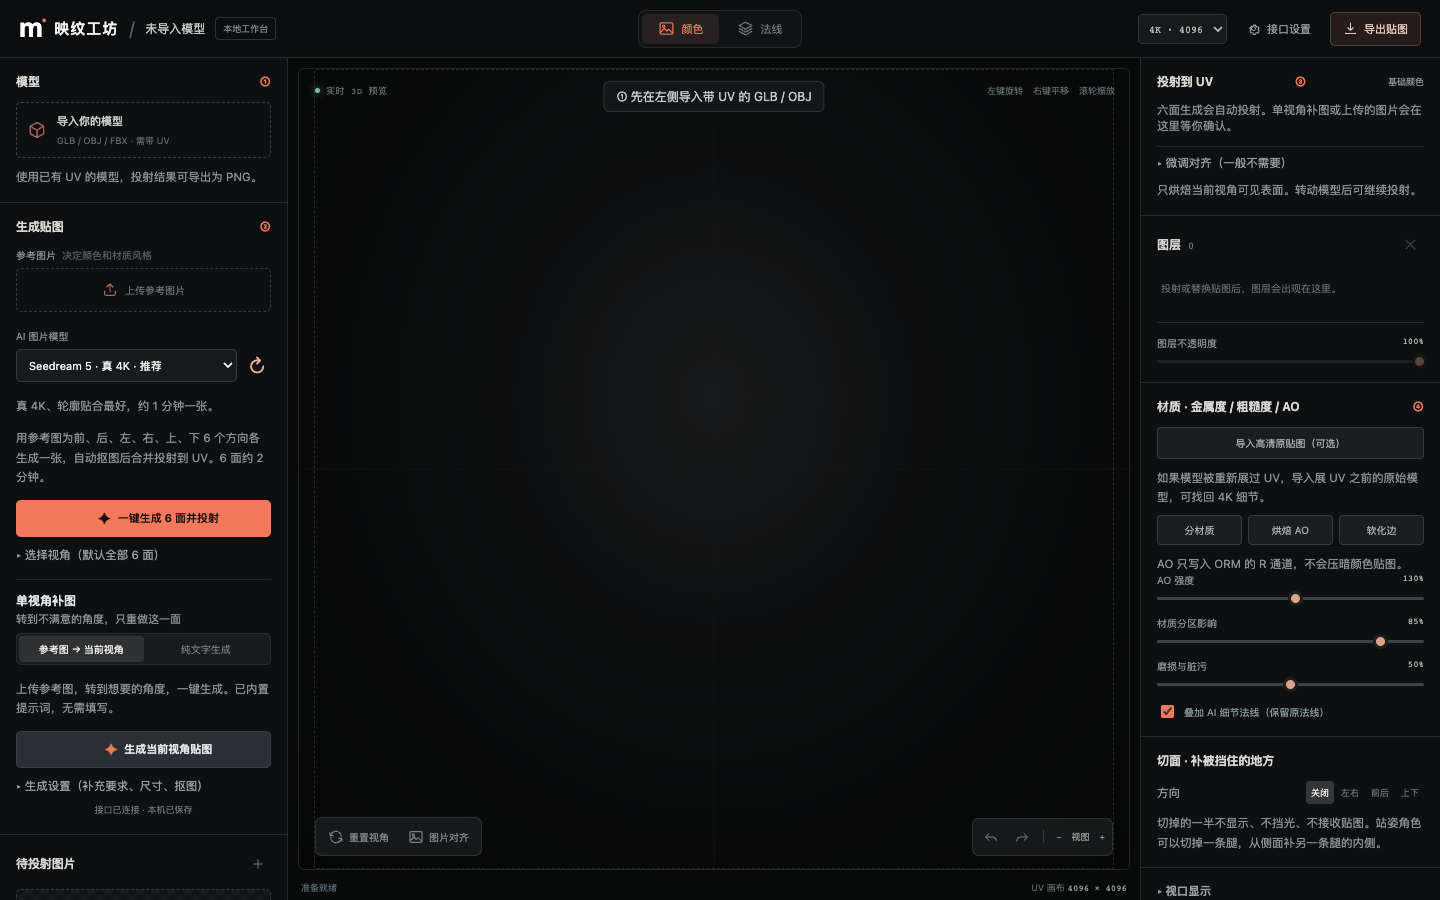
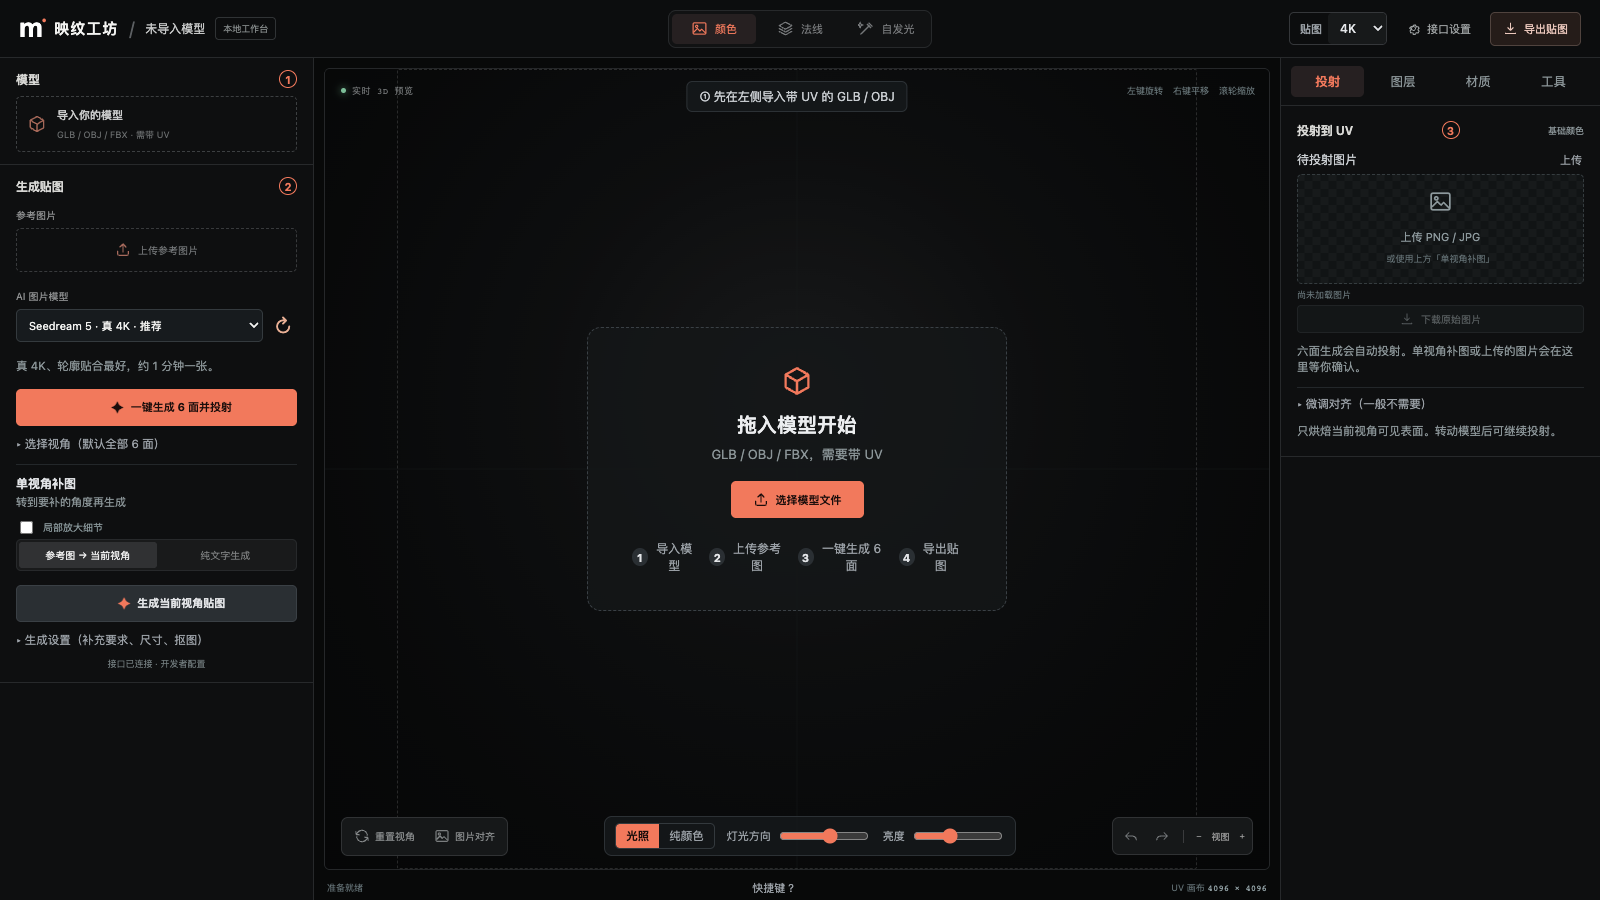
README：新界面截图，自发光、局部放大、视口灯光、快捷键说明

diff --git a/README.md b/README.md
@@ -36,21 +36,43 @@
 
 ## 怎么用
 
-界面按 ①②③④ 的顺序从上往下走，视口上方的提示条会告诉你下一步做什么。
+左侧按 1、2 两步生成，右侧分成 **投射 / 图层 / 材质 / 工具** 四个标签，操作时会自动切到对应的标签。视口上方的提示条会告诉你下一步做什么。可以直接把模型或参考图拖进视口。
 
 1. **① 模型**：导入带 UV 的 GLB / OBJ / FBX（推荐 GLB）。多部件模型会列出部件，可以先隐藏挡在前面的部件。
 2. **② 生成贴图**：上传参考图，点「**一键生成 6 面并投射**」。6 个方向同时生成（每张约 1 分钟，总共约 2 分钟），完成后自动贴到模型上。
-   - 哪一面不满意，点那一面格子上的 ↻ 单独重做。
+   - 生成结果显示成一排 6 张小图。鼠标移上去可以「用 / ↻ 重做 / ◎ 查看」这一面。
    - 某个角度没贴好：转到那个角度，用「单视角补图」只重做这一面。
-   - 要做法线：顶部切到「法线」，再点一次「一键生成 6 面」。
-3. **③ 投射到 UV**：单视角补图或上传的图片会停在这里，确认对齐后点「投射并烘焙到 UV」。上传的图如果本身就是 UV 贴图，会自动识别，改成「直接替换」。
-4. **④ 材质**：
+   - **局部放大细节**：龙头这类细节多的地方，勾选「局部放大细节」，先把那一块放大到占满画面，再点生成。投射时边缘会自动渐隐，和周围融合。
+   - 顶部切到「**法线**」或「**自发光**」，再点一次「一键生成 6 面」，就是对应的贴图。
+3. **③ 投射**（右侧「投射」标签）：单视角补图或上传的图片会停在这里，确认对齐后点「投射并烘焙到 UV」。上传的图如果本身就是 UV 贴图，会自动识别，改成「直接替换」。
+4. **④ 材质**（右侧「材质」标签）：
    - 「分材质」：按颜色自动分成几种材质（如银、铜、金、灰铁）。每种可以选预设或调金属、粗糙；鼠标悬停时，模型上会高亮对应区域。
    - 「烘焙 AO」：4K 环境光遮蔽，只写进 ORM，不会压暗颜色贴图。
    - 「软化边」：合并接缝硬边（已是软边时不改动）。
    - 「导入高清原贴图（可选）」：模型重新展过 UV、贴图被降到 2K 时（例如 Tripo 智能展 UV），导入展 UV 之前的原始模型，可以找回 4K 颜色、法线和金属粗糙度。
-5. **切面**：被挡住、贴不到的地方，可以切掉一半模型再生成。人形模型会出现「一键补腿内侧」。
+5. **工具**（右侧「工具」标签）：切面（被挡住、贴不到的地方，切掉一半模型再生成；人形模型会出现「一键补腿内侧」）和视口显示设置。
 6. **导出**：点右上角「导出贴图」。
+
+### 自发光贴图
+
+顶部切到「自发光」后点「一键生成 6 面」。AI 只画参考图里会发光的地方（眼睛、宝石、符文、熔岩等），其他地方都是黑色。如果某一面被 AI 画成了普通颜色，会自动跳过，可以点 ↻ 重试。右侧「投射」标签里可以调发光强度。
+
+### 视口灯光
+
+视口底部可以切换「光照 / 纯颜色」。「纯颜色」会去掉所有灯光，只看颜色贴图本身；「灯光方向」可以转动主光，侧光下能看清法线细节。
+
+### 快捷键
+
+| 键 | 作用 |
+|---|---|
+| G | 一键生成 6 面 |
+| P | 投射到 UV |
+| 1 / 2 / 3 | 切换 颜色 / 法线 / 自发光 |
+| U | 光照 / 纯颜色 |
+| F | 重置视角 |
+| E | 导出 |
+| ⌘Z | 撤销 |
+| ? | 显示快捷键 |
 
 ![材质面板](docs/images/03-materials.png)
 
@@ -62,6 +84,7 @@
 | Normal PNG | 全部 | OpenGL 格式。UE5 导入时勾选 **Flip Green Channel** |
 | ORM PNG | UE5 | R=AO，G=粗糙度，B=金属度；导入时关闭 sRGB |
 | Unity URP 贴图 | Unity | MetallicSmoothness 拖到 Metallic Map（Source 选 Metallic Alpha）；AO 拖到 Occlusion Map |
+| Emissive PNG | 全部 | 黑色 = 不发光。UE5 接 Emissive Color；Unity 勾选 Emission 后放进 Emission Map |
 | GLB 模型 | 全部 | 带上面所有贴图 |
 
 默认导出 4096×4096，可在右上角切换到 8K（8K 是更精细的烘焙，不会比 4K 原图多出细节）。
